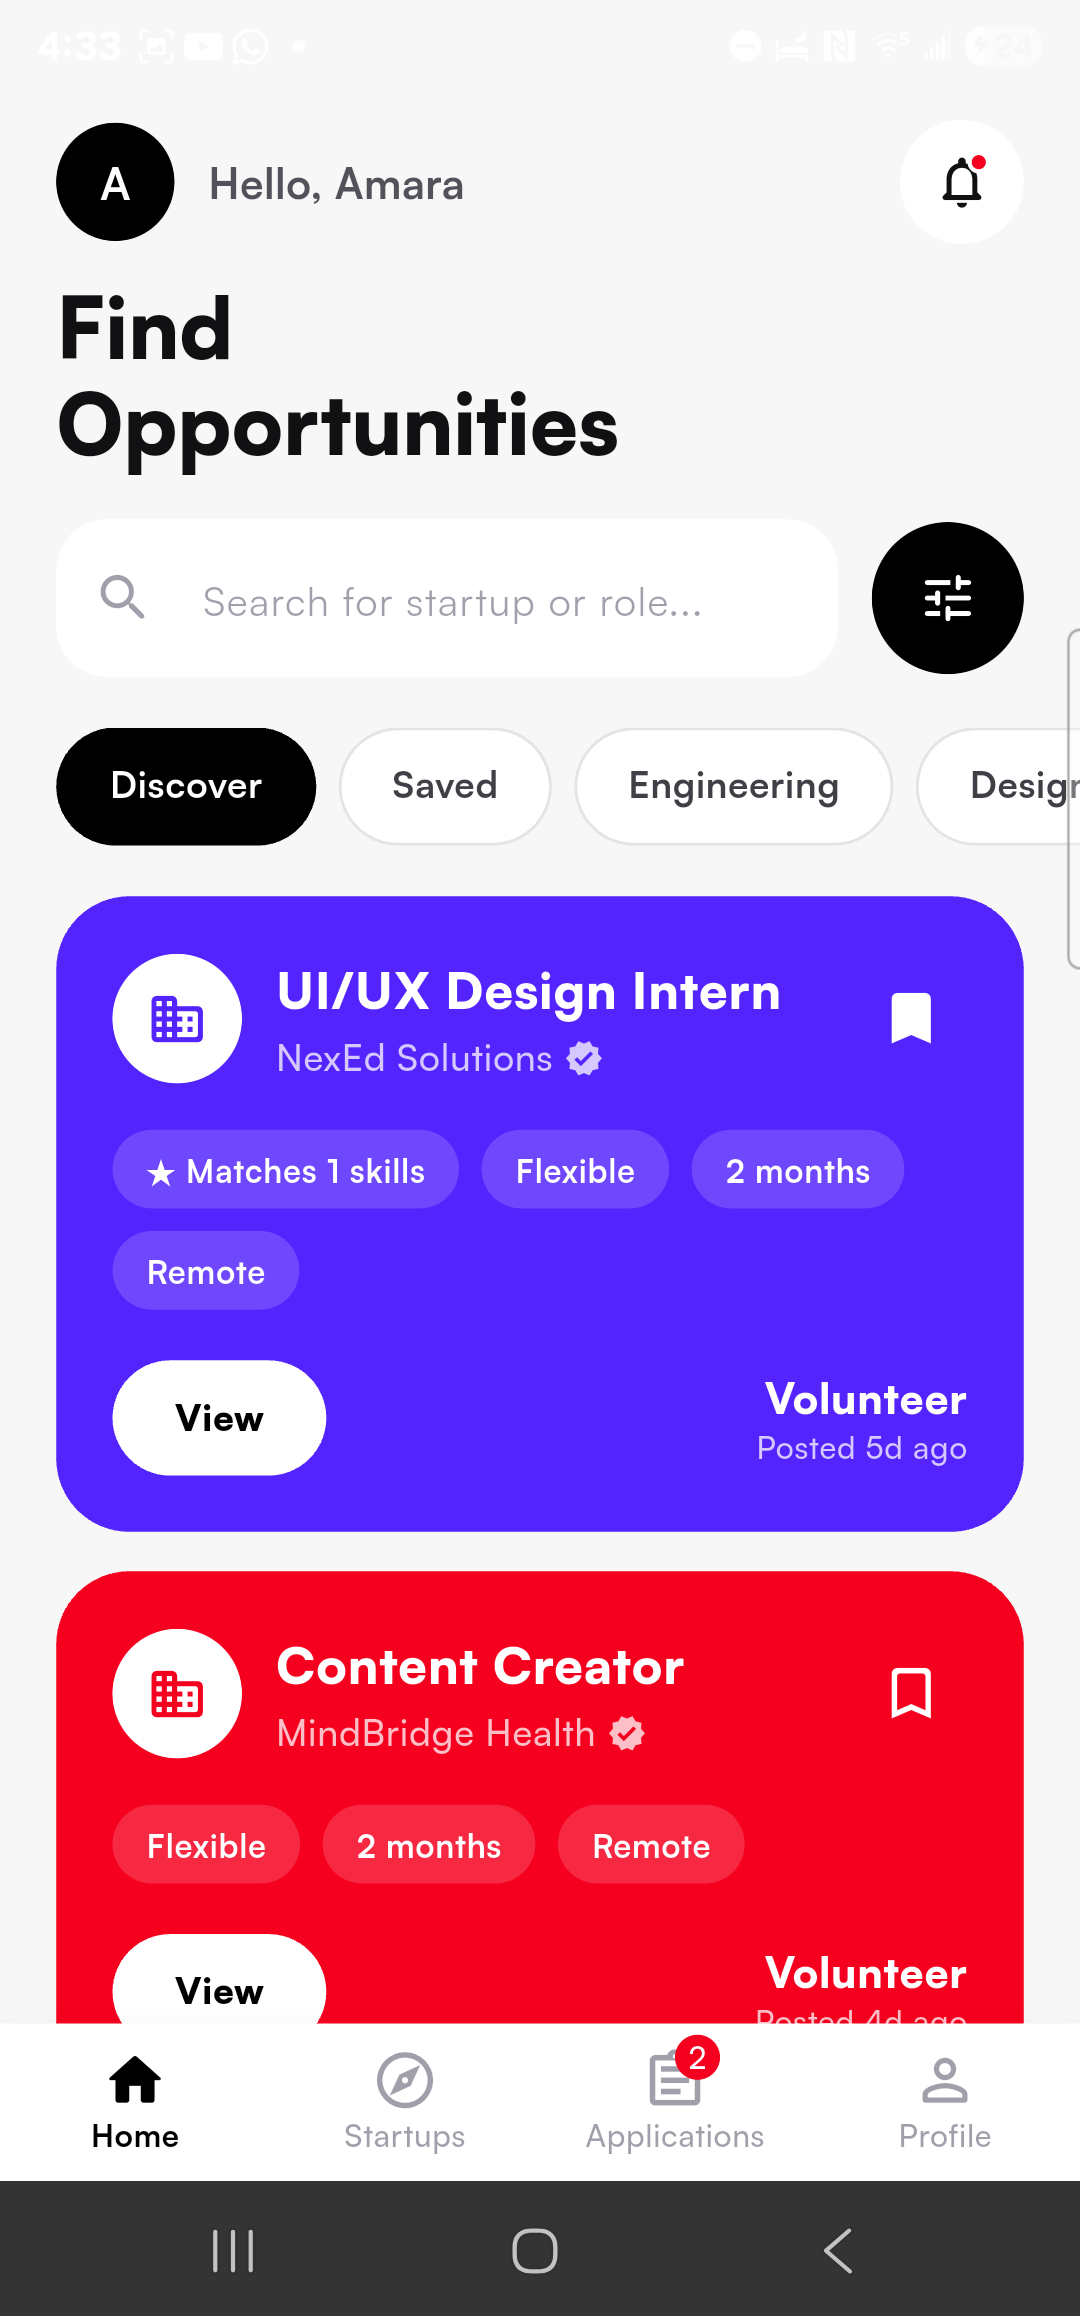
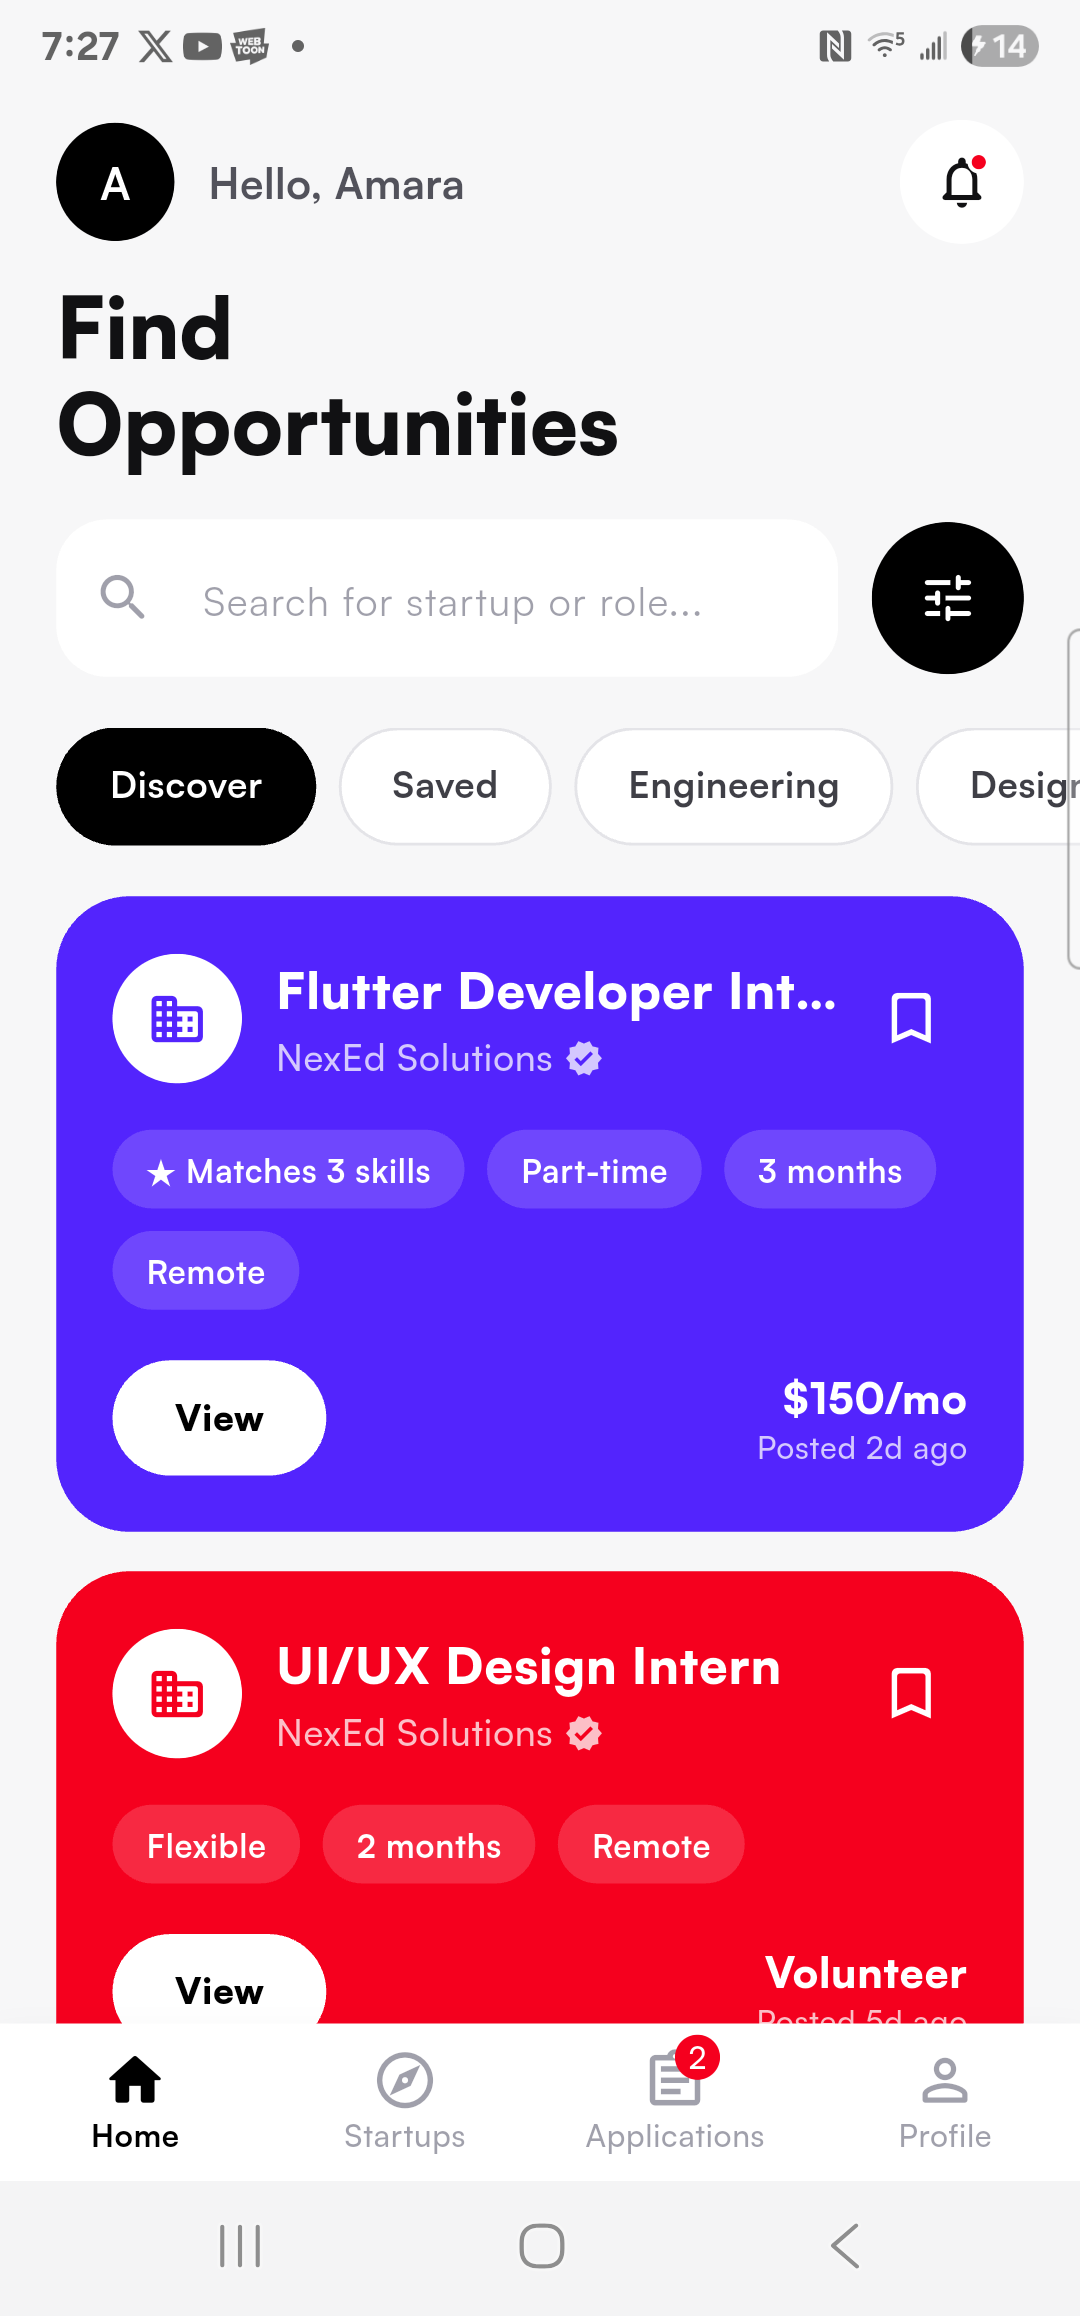
Embed app workflow screenshots in report; fix dropdown overflow
- Screenshots captured on-device: feed with skill-match ranking, dark
  opportunity detail, pipeline tracker, admin verification, registration,
  onboarding skill selection; plus Emulator UI auth + firestore figures
- isExpanded on program/industry/category dropdowns (RenderFlex overflow
  found during screenshot pass)

diff --git a/report/ALU_Nexus_Report.html b/report/ALU_Nexus_Report.html
@@ -252,13 +252,29 @@ upgrade path (§10).</p>
 </figure>
 
 <div class="fig-row">
-  <div class="shot">[ Screenshot — Onboarding: skill selection ]</div>
-  <div class="shot">[ Screenshot — Opportunity detail (dark) with Apply ]</div>
+  <figure class="phone">
+    <img src="img/06_register.png" alt="Registration with role selection">
+    <p class="caption">Fig. 5 — Registration: role selection (student / startup) with ALU-email enforcement.</p>
+  </figure>
+  <figure class="phone">
+    <img src="img/06_onboarding_skills.png" alt="Onboarding skill selection">
+    <p class="caption">Fig. 6 — Onboarding skill selection; these choices drive the feed ranking in Fig. 4.</p>
+  </figure>
 </div>
 <div class="fig-row">
-  <div class="shot">[ Screenshot — Application pipeline tracker ]</div>
-  <div class="shot">[ Screenshot — Admin verification dashboard ]</div>
+  <figure class="phone">
+    <img src="img/02_detail.png" alt="Opportunity detail">
+    <p class="caption">Fig. 7 — Opportunity detail: the feed card's color carries in as the identity block on a dark canvas; Save + Apply Now bottom bar.</p>
+  </figure>
+  <figure class="phone">
+    <img src="img/03_tracker.png" alt="Application tracker">
+    <p class="caption">Fig. 8 — Application tracker: pill filters and the five-step pipeline with status notes and a scheduled interview.</p>
+  </figure>
 </div>
+<figure class="phone">
+  <img src="img/04_admin.png" alt="Admin verification dashboard">
+  <p class="caption">Fig. 9 — Admin verification dashboard: PayEase Africa pending review with approve/reject actions; decisions are audit-logged.</p>
+</figure>
 
 <h2>6. UI/UX reasoning</h2>
 <p>The interface went through <b>three full design iterations</b> — a navy/gold corporate look, a flat
@@ -326,12 +342,12 @@ final system commits to a strong, recognizable visual language:</p>
 
 <figure>
   <img src="img/05_emulator_auth.png" alt="Emulator Auth accounts">
-  <p class="caption">Fig. 5 — Firebase Authentication (Emulator Suite UI): the three role accounts
+  <p class="caption">Fig. 10 — Firebase Authentication (Emulator Suite UI): the three role accounts
   provisioned by the seed script, as created through the real Auth API.</p>
 </figure>
 <figure>
   <img src="img/05_emulator_firestore.png" alt="Emulator Firestore data">
-  <p class="caption">Fig. 6 — Cloud Firestore data browser: the <code>applications</code> collection with a
+  <p class="caption">Fig. 11 — Cloud Firestore data browser: the <code>applications</code> collection with a
   document showing the denormalized fields (applicant + opportunity display data embedded) described in §4.2.</p>
 </figure>
 

diff --git a/lib/features/onboarding/presentation/screens/startup_onboarding_screen.dart b/lib/features/onboarding/presentation/screens/startup_onboarding_screen.dart
@@ -253,6 +253,7 @@ class _StartupPage1 extends StatelessWidget {
           const SizedBox(height: 16),
           DropdownButtonFormField<String>(
             initialValue: industry,
+            isExpanded: true,
             decoration: const InputDecoration(
               labelText: 'Industry',
               prefixIcon: Icon(Icons.category_outlined),

diff --git a/lib/features/onboarding/presentation/screens/student_onboarding_screen.dart b/lib/features/onboarding/presentation/screens/student_onboarding_screen.dart
@@ -220,6 +220,7 @@ class _Page1 extends StatelessWidget {
           const SizedBox(height: 28),
           DropdownButtonFormField<String>(
             initialValue: program,
+            isExpanded: true,
             decoration: const InputDecoration(
               labelText: 'Program',
               prefixIcon: Icon(Icons.school_outlined),

diff --git a/lib/features/opportunities/presentation/screens/post_opportunity_screen.dart b/lib/features/opportunities/presentation/screens/post_opportunity_screen.dart
@@ -159,6 +159,7 @@ class _PostOpportunityScreenState extends State<PostOpportunityScreen> {
               const SizedBox(height: 16),
               DropdownButtonFormField<String>(
                 initialValue: _type,
+                isExpanded: true,
                 decoration: const InputDecoration(labelText: 'Role Category'),
                 items: AppConstants.opportunityTypes
                     .map((t) => DropdownMenuItem(value: t, child: Text(t)))